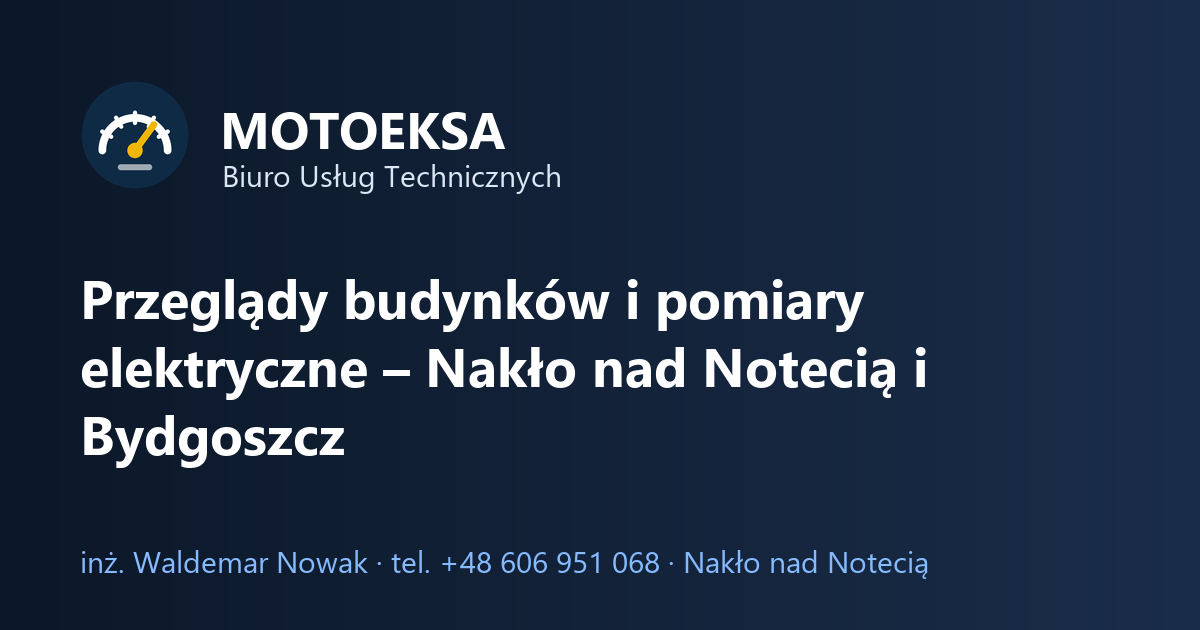
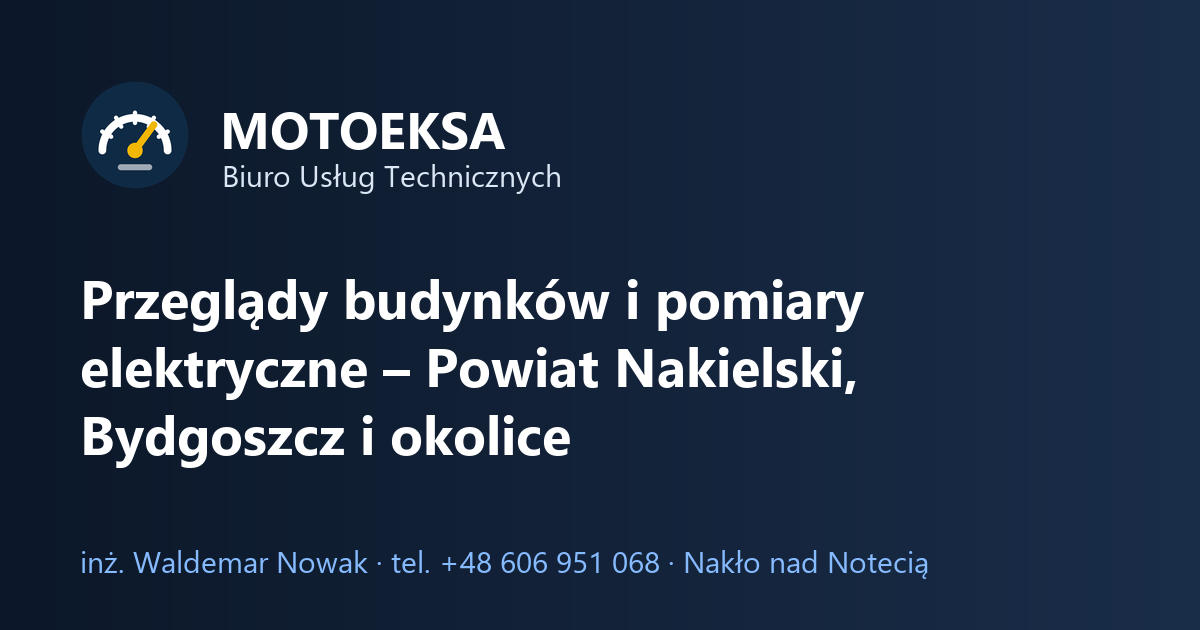
Aktualizacja strony 2026-10-22 21:09

Changed region(s): [[0.3392, 0.5429, 0.7708, 0.6333], [0.2775, 0.6635, 0.4933, 0.7238]]

diff --git a/index.html b/index.html
@@ -197,7 +197,7 @@
   <div class="kontener hero-wnetrze">
     <div>
       <p class="hero-etykieta">inż. Waldemar Nowak · Nakło nad Notecią</p>
-      <h1>Przeglądy budynków i pomiary elektryczne – Nakło nad Notecią i&nbsp;Bydgoszcz</h1>
+      <h1>Przeglądy budynków i pomiary elektryczne – Powiat Nakielski, Bydgoszcz i okolice</h1>
       <p class="hero-opis">Wykonuję okresowe kontrole stanu technicznego budynków, pomiary i protokoły instalacji elektrycznych, analizy zużycia i kosztów energii (taryfa, moc umowna, opłata mocowa) oraz kompensację mocy biernej – dla zarządców, szkół, obiektów sportowych, gmin i firm.</p>
       <div class="przyciski">
         <a class="przycisk" href="tel:+48606951068">Zadzwoń: 606 951 068</a>
@@ -481,7 +481,7 @@
     <div class="obszar">
       <div class="obszar-ikona" aria-hidden="true">⌖</div>
       <div class="tekst-sekcji">
-      <p>Przeglądy budynków i pomiary elektryczne wykonuję na miejscu na terenie powiatu nakielskiego – w Nakle nad Notecią, Szubinie, Kcyni, Mroczy i Sadkach – a także w Bydgoszczy, Żninie, Wyrzysku, Pile i w całym województwie kujawsko-pomorskim.</p>
+      <p>Przeglądy budynków i pomiary elektryczne wykonuję w miejscu wskazanym przez Zamawiającego</p>
       <p>Przeglądy wielu obiektów jednego zarządcy wykonuję również w innych powiatach, po uzgodnieniu terminu. Analizy zużycia energii, opłaty mocowej i faktur prowadzę zdalnie dla obiektów z całej Polski.</p>
       </div>
     </div>
